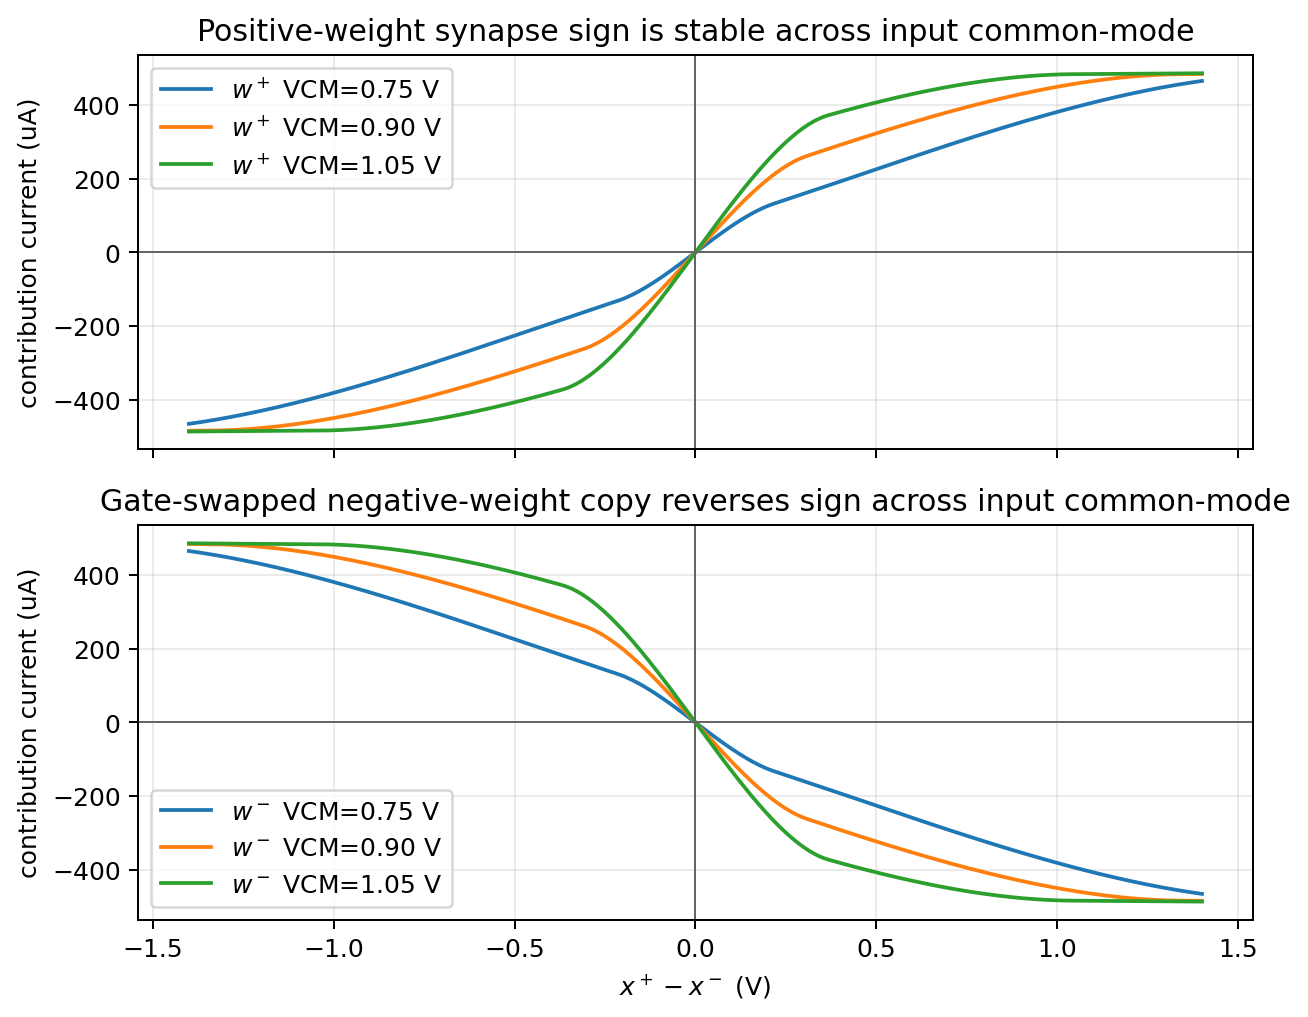
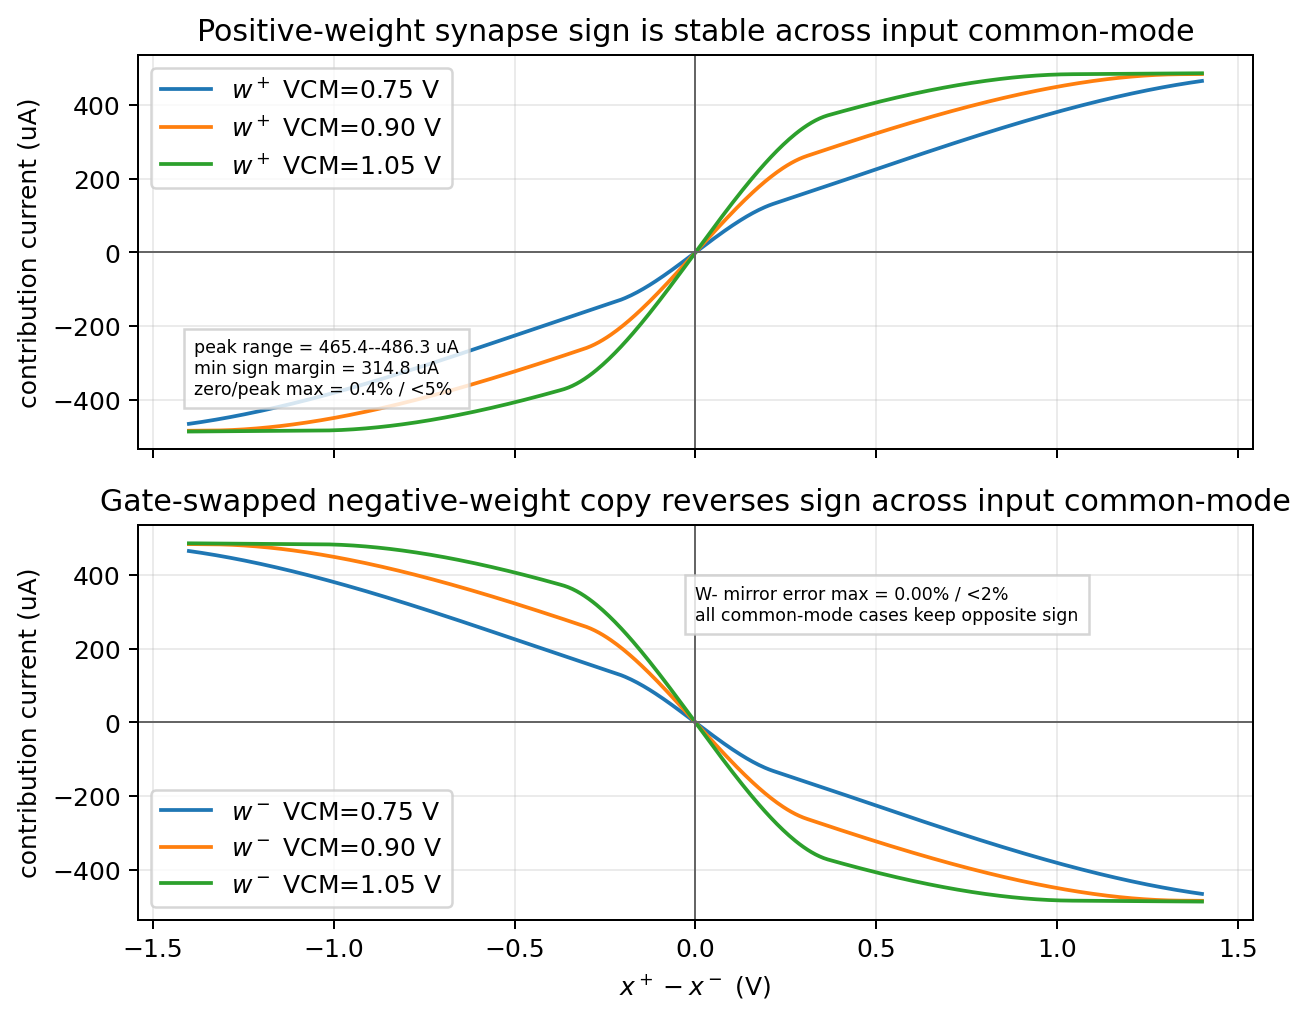
Annotate MOS synapse robustness margins

Changed region(s): [[0.1223, 0.3048, 0.367, 0.4267], [0.5199, 0.5792, 0.8257, 0.6401]]

diff --git a/spice/run_mos_cell_characterization.py b/spice/run_mos_cell_characterization.py
@@ -349,6 +349,10 @@ quit
     cm_data = run_ngspice(cm_deck, "mos_synapse_common_mode")
     _cmt, cm_cols = load_wrdata(cm_data, 6 * len(cm_cases))
     cm_curves: list[tuple[str, float, np.ndarray, np.ndarray, np.ndarray]] = []
+    cm_peaks = []
+    cm_zero_fracs = []
+    cm_mirror_fracs = []
+    cm_sign_margins = []
     for idx, (name, cm) in enumerate(cm_cases):
         xp = cm_cols[6 * idx]
         xm = cm_cols[6 * idx + 1]
@@ -364,7 +368,23 @@ quit
         require(cm_peak > 0.5e-6, f"{name} VCM synapse branch should retain useful current swing")
         require(abs(cm_zero) < 0.05 * cm_peak, f"{name} VCM synapse transfer should stay centered")
         require(np.max(np.abs(cm_pos_signed + cm_neg_signed)) < 0.02 * cm_peak, f"{name} VCM w- copy should reverse sign")
+        cm_peaks.append(cm_peak)
+        cm_zero_fracs.append(abs(cm_zero) / cm_peak)
+        cm_mirror_fracs.append(float(np.max(np.abs(cm_pos_signed + cm_neg_signed))) / cm_peak)
+        cm_sign_margins.extend(
+            [
+                float(np.mean(cm_pos_signed[cm_xdiff > 0.2])),
+                float(-np.mean(cm_pos_signed[cm_xdiff < -0.2])),
+                float(-np.mean(cm_neg_signed[cm_xdiff > 0.2])),
+                float(np.mean(cm_neg_signed[cm_xdiff < -0.2])),
+            ]
+        )
         cm_curves.append((name, cm, cm_xdiff, cm_pos_signed, cm_neg_signed))
+    cm_peak_min_uA = 1e6 * float(np.min(cm_peaks))
+    cm_peak_max_uA = 1e6 * float(np.max(cm_peaks))
+    cm_zero_frac_max = float(np.max(cm_zero_fracs))
+    cm_mirror_frac_max = float(np.max(cm_mirror_fracs))
+    cm_sign_margin_min_uA = 1e6 * float(np.min(cm_sign_margins))
 
     store_data = run_ngspice(store_deck, "mos_synapse_store")
     t, store_cols = load_wrdata(store_data, 7)
@@ -487,6 +507,13 @@ quit
     require(high_offset > balanced_offset + 0.012, "high VTO z+ branch should move W+ zero crossing positive")
     require(np.max(np.abs(mismatch_offsets)) < 0.06, "20 mV synapse input mismatch should keep W+ offset bounded")
     require(np.max(np.abs(np.array(mismatch_offsets) + np.array(mismatch_neg_offsets))) < 0.01, "gate-swapped W- mismatch offsets should mirror W+")
+    mismatch_offset_max = float(np.max(np.abs(mismatch_offsets)))
+    mismatch_offset_span = float(high_offset - low_offset)
+    mismatch_mirror_error = float(np.max(np.abs(np.array(mismatch_offsets) + np.array(mismatch_neg_offsets))))
+    mismatch_min_swing_uA = 1e6 * min(
+        min(float(np.max(mpos) - np.min(mpos)), float(np.max(mneg) - np.min(mneg)))
+        for _name, _label, _mxdiff, mpos, mneg in mismatch_curves
+    )
 
     fig, axes = plt.subplots(2, 1, figsize=(7.2, 6.2))
     callout_box = {"facecolor": "white", "alpha": 0.82, "edgecolor": "0.8"}
@@ -663,6 +690,19 @@ quit
     mismatch_axes[0].set_ylabel("contribution current (uA)")
     mismatch_axes[0].set_title("Synapse input-pair mismatch shifts contribution zero")
     mismatch_axes[0].grid(True, alpha=0.25)
+    mismatch_axes[0].text(
+        0.52,
+        0.15,
+        "max zero offset = "
+        f"{1e3 * mismatch_offset_max:.1f} mV / <60 mV\n"
+        "offset span = "
+        f"{1e3 * mismatch_offset_span:.1f} mV\n"
+        "min swing = "
+        f"{mismatch_min_swing_uA:.1f} uA",
+        transform=mismatch_axes[0].transAxes,
+        fontsize="x-small",
+        bbox=callout_box,
+    )
     mismatch_axes[0].legend(loc="upper left")
     labels_mm = [case[2] for case in mismatch_cases]
     mismatch_axes[1].plot(labels_mm, mismatch_offsets, "o-", label="$W^+$ zero")
@@ -672,6 +712,18 @@ quit
     mismatch_axes[1].set_ylabel("zero crossing $x^+ - x^-$ (V)")
     mismatch_axes[1].set_title("Gate-swapped copy mirrors the mismatch offset")
     mismatch_axes[1].grid(True, axis="y", alpha=0.25)
+    mismatch_axes[1].text(
+        0.05,
+        0.16,
+        "W+ zeros = "
+        + "/".join(f"{1e3 * value:+.0f}" for value in mismatch_offsets)
+        + " mV\n"
+        "W- mirror error = "
+        f"{1e3 * mismatch_mirror_error:.2f} mV / <10 mV",
+        transform=mismatch_axes[1].transAxes,
+        fontsize="x-small",
+        bbox=callout_box,
+    )
     mismatch_axes[1].legend(loc="upper left")
     mismatch_fig.tight_layout()
     save_plot(mismatch_fig, "mos_synapse_mismatch_ngspice")
@@ -688,6 +740,29 @@ quit
     cm_axes[0].set_title("Positive-weight synapse sign is stable across input common-mode")
     cm_axes[1].set_title("Gate-swapped negative-weight copy reverses sign across input common-mode")
     cm_axes[1].set_xlabel("$x^+ - x^-$ (V)")
+    cm_axes[0].text(
+        0.05,
+        0.14,
+        "peak range = "
+        f"{cm_peak_min_uA:.1f}--{cm_peak_max_uA:.1f} uA\n"
+        "min sign margin = "
+        f"{cm_sign_margin_min_uA:.1f} uA\n"
+        "zero/peak max = "
+        f"{100.0 * cm_zero_frac_max:.1f}% / <5%",
+        transform=cm_axes[0].transAxes,
+        fontsize="x-small",
+        bbox=callout_box,
+    )
+    cm_axes[1].text(
+        0.50,
+        0.76,
+        "W- mirror error max = "
+        f"{100.0 * cm_mirror_frac_max:.2f}% / <2%\n"
+        "all common-mode cases keep opposite sign",
+        transform=cm_axes[1].transAxes,
+        fontsize="x-small",
+        bbox=callout_box,
+    )
     cm_axes[0].legend(loc="upper left")
     cm_axes[1].legend(loc="lower left")
     cm_fig.tight_layout()

diff --git a/engineering_log.md b/engineering_log.md
@@ -807,3 +807,4 @@
 - Added ngspice-derived callouts to the hybrid writer activation, product-router, and reset/reuse figures. The activation sweep now exposes the stored hidden error (`98.5 mV`), restored-gate separation (`1.54 V`), positive incremental write range (`33.4--59.3 mV`), gain ratio (`1.78x`), and suppressed complement rail (`0.000 mV`). The four-quadrant product plot now reports symmetric stored errors (`+/-98.5 mV`), selected/complement restored gates (`0.20/1.73 V`), exact activation sampling in this fixture, minimum signed update (`23.0 mV`), zero displayed quadrant spread, and suppressed inactive rail. The reuse plot now reports reset residue/common-mode error near zero, no visible reset disturbance of persistent weight caps, `25.7 mV` first write, `25.7 mV` opposite-sign cancellation, and zero displayed final hold error. This did not change circuit behavior; it makes the existing ngspice pass margins visible in the paper plots.
 - Added ngspice-derived callouts to the adjacent hybrid activation-control figures. The activation-store plot now shows the stored hidden error (`98.5 mV`), selected/complement restored gates (`0.20/1.73 V`), active activation sample (`0.920 V`), inactive overwrite (`1.450 V`), active write (`25.7 mV`), zero displayed inactive increment, final drift, and complement step. The activation-timing sweep now makes the required sample-before-write ordering explicit: pre-sample write is `0.00 mV`, sample-edge write is `16.7 mV`, settled writes are at least `24.3 mV`, settled spread is `0.00 mV`, and the complement rail stays at `0.000 mV`. The pacc-width sweep now reports the stored hidden/error gates, sampled activation hold, monotone step range (`2.9--43.1 mV`), minimum width increment (`2.7 mV`), linearity (`R2=1.00000`), and zero displayed complement/selected-dominance error. This keeps the figure captions backed by the same ngspice traces and assertions rather than adding a separate hand-written interpretation.
 - Added ngspice-derived callouts to the remaining paper-facing hybrid-writer summary figures: timing-corner, bias-writer, integrated cell-update, and four-quadrant cell-update plots. The regenerated figures now show the same trace-backed margins that the assertions enforce, including selected/complement restored-gate levels, stored error symmetry, inactive-rail suppression, hold error, update/readback magnitudes, pacc timing requirements, and quadrant spread. This did not change circuit behavior; it closes the readability gap for the older hybrid summary plots so the paper figures expose the actual MOS/ngspice evidence instead of requiring readers to trust the captions.
+- Added assertion-derived margin callouts to the basic MOS synapse mismatch and common-mode figures. The mismatch plot now reports the bounded zero offset (`20 mV` max under the +/-20 mV threshold-skew fixture), the mirrored gate-swapped W- zero error, retained current swing, and offset span. The common-mode plot now reports peak-current range (`465--486 uA`), minimum sign margin (`315 uA`), centering error (`0.4%` of peak), and W-/W+ mirror error. Regenerated the synapse family through ngspice and inspected the resulting PNGs; this closes a paper-figure readability gap without changing the underlying circuits or thresholds.
